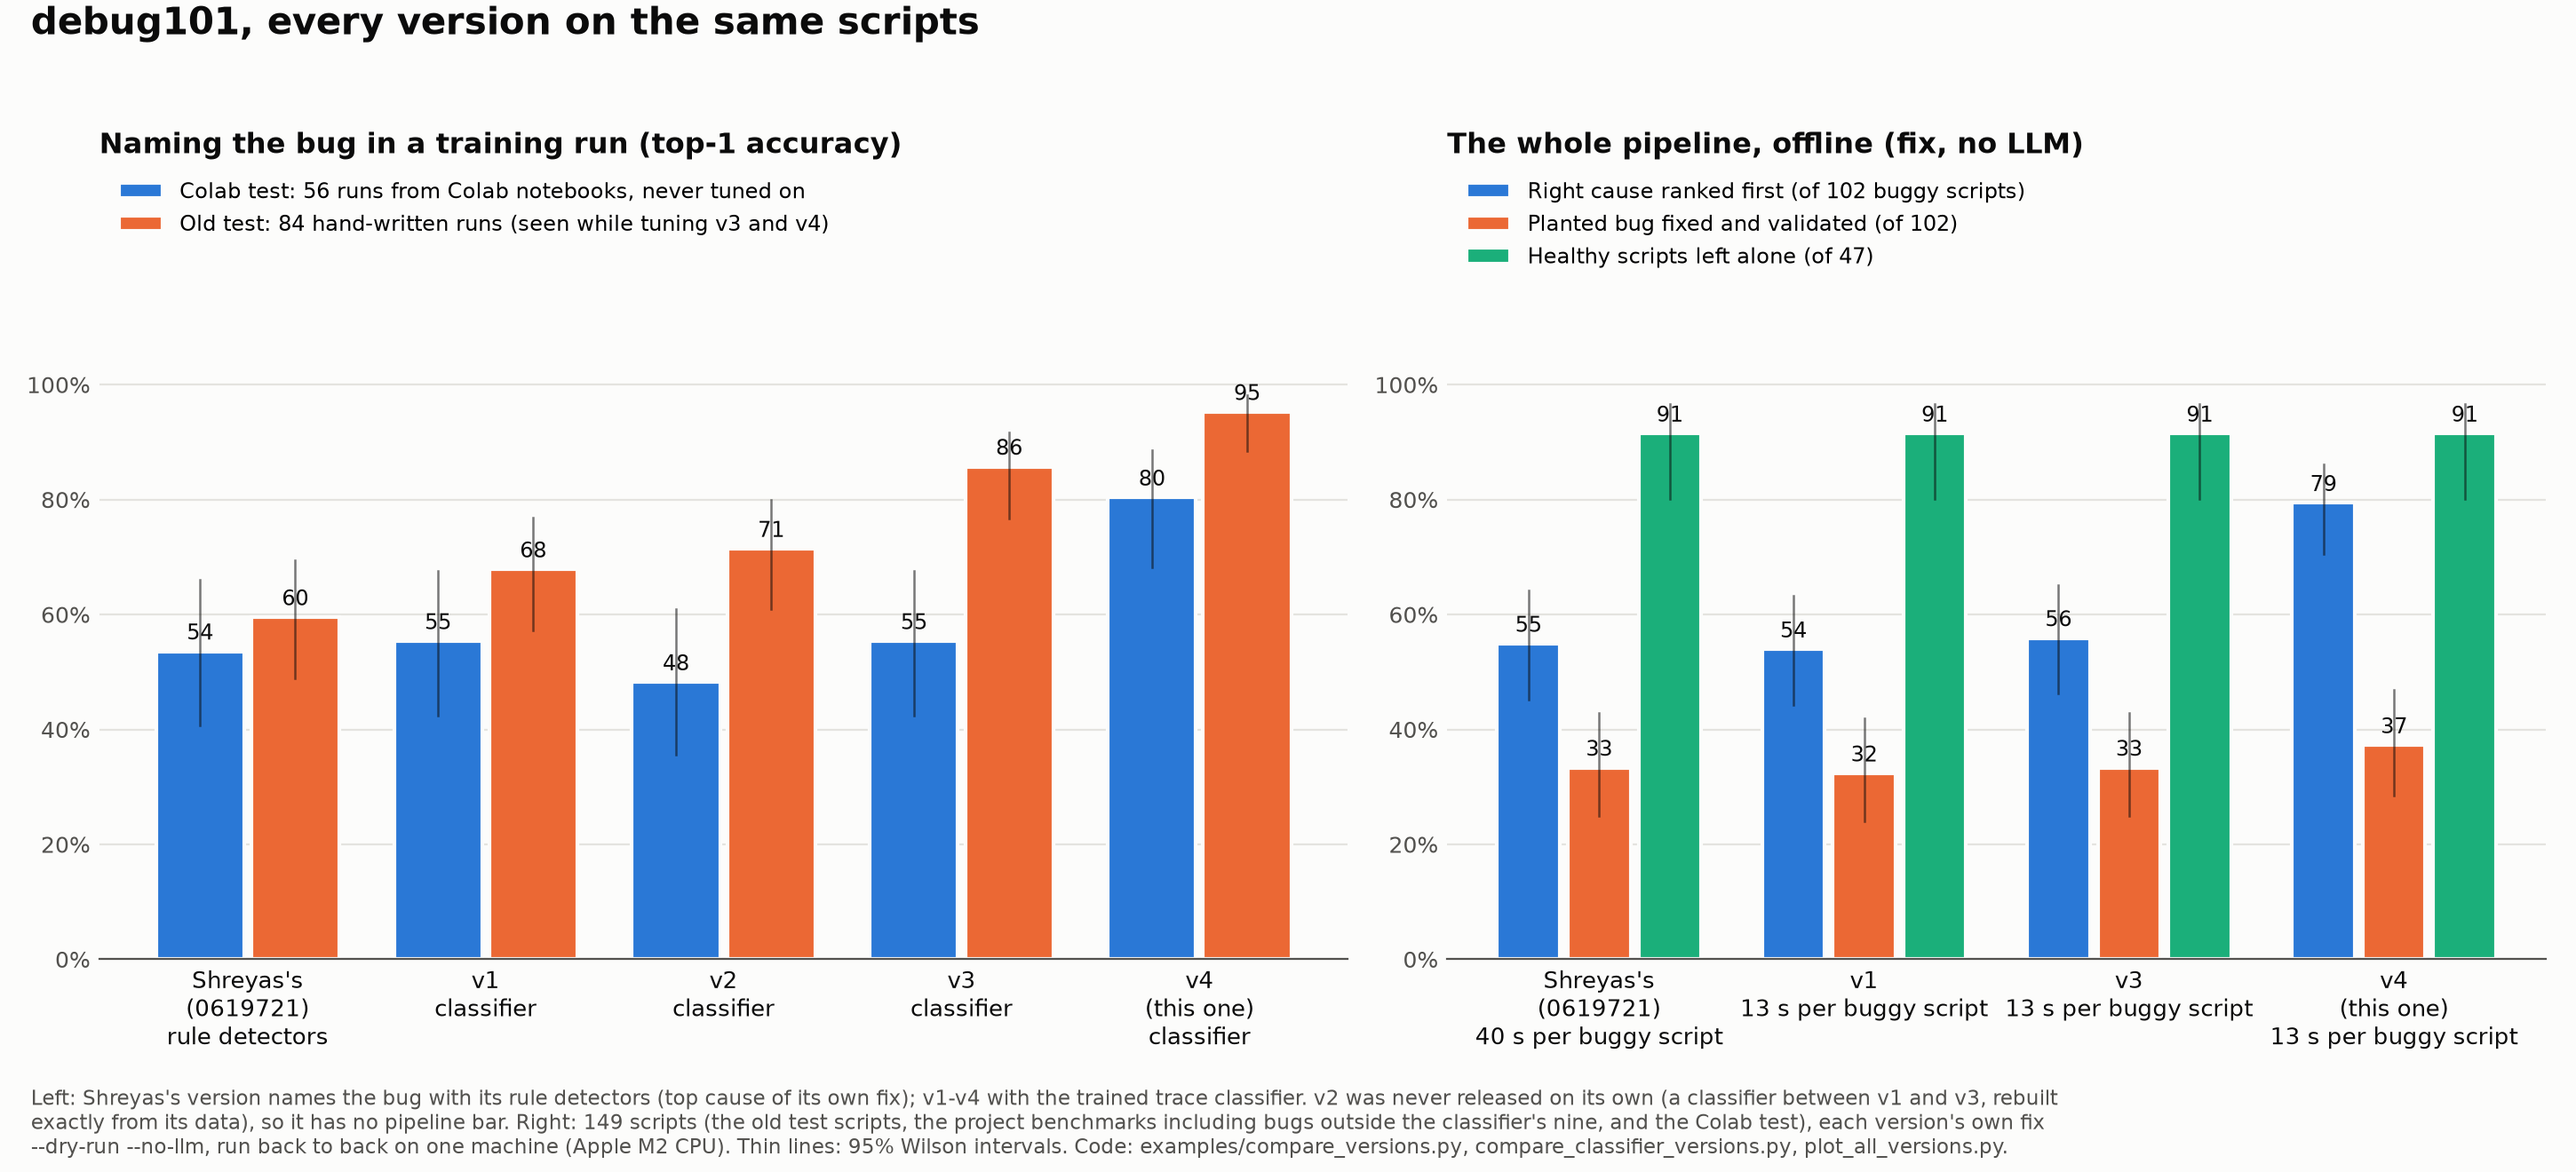
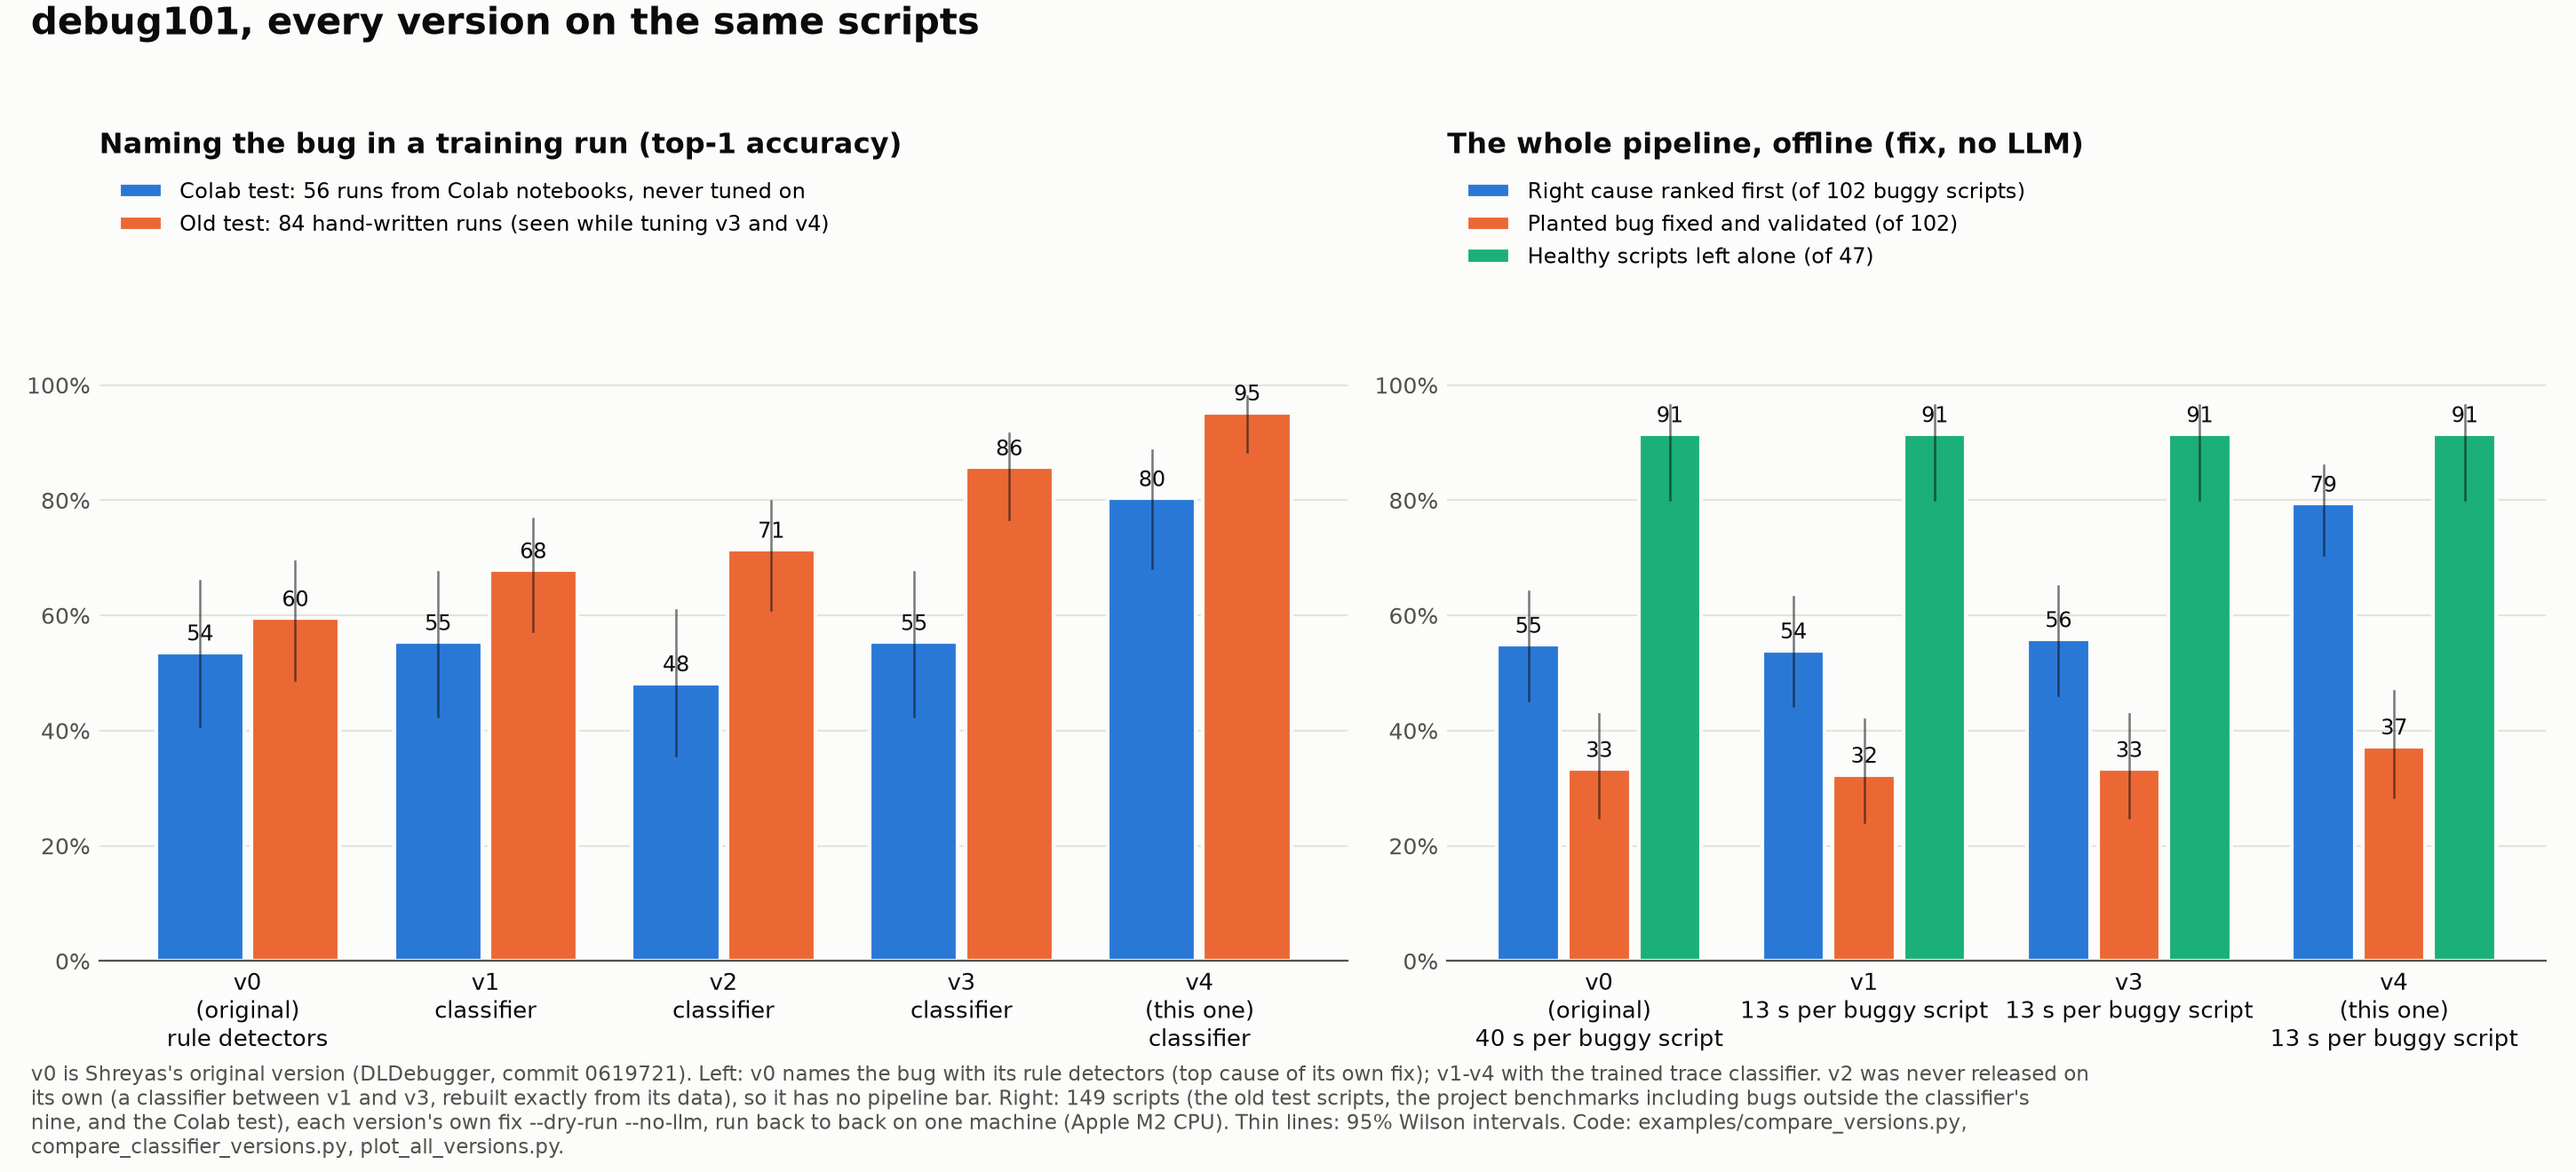
Charts: name Shreyas's original version v0

Changed region(s): [[0.0, 0.8076, 0.9621, 0.9939], [0.5276, 0.7144, 0.5586, 0.7455], [0.2483, 0.5591, 0.2793, 0.5902]]

diff --git a/examples/plot_versions.py b/examples/plot_versions.py
@@ -72,8 +72,9 @@ def differences(data: Dict[str, Any]) -> List[str]:
     return lines
 
 
-VERSION_NAMES = {"shreyas": "Shreyas's (DLDebugger, 0619721)", "v1": "v1 (0728d71)", "v2": "v2", "v3": "v3 (b7179ad)",
+VERSION_NAMES = {"shreyas": "v0 (original: DLDebugger, 0619721)", "v1": "v1 (0728d71)", "v2": "v2", "v3": "v3 (b7179ad)",
                  "v4": "v4 (this one)"}
+SHORT = {"shreyas": "v0"}  # how each version is named in the notes
 MANY_CAPABILITIES = [  # what each version has, as released
     ("Pipeline sees a blind copy (no hints)", {"shreyas": "no", "v1": "yes", "v3": "yes", "v4": "yes"}),
     ("Gate 2 seeds in parallel, two looks", {"shreyas": "no", "v1": "yes, with an early stop that cost a repair",
@@ -104,15 +105,18 @@ def many(data: Dict[str, Any], out: str) -> int:
     for subset in [k for k in data["summary"] if k != "all"]:
         part = data["summary"][subset]
         per_set.append(f"{subset} ({part[names[0]]['buggy']} buggy, {part[names[0]]['healthy']} healthy): right cause"
-                       " first " + ", ".join(f"{n} {part[n]['right_cause_first']}" for n in names)
-                       + "; planted bug fixed " + ", ".join(f"{n} {part[n]['planted_bug_fixed']}" for n in names)
-                       + "; healthy changed " + ", ".join(f"{n} {part[n]['healthy_changed']}" for n in names) + ".")
+                       " first " + ", ".join(f"{SHORT.get(n, n)} {part[n]['right_cause_first']}" for n in names)
+                       + "; planted bug fixed " + ", ".join(f"{SHORT.get(n, n)} {part[n]['planted_bug_fixed']}"
+                                                            for n in names)
+                       + "; healthy changed " + ", ".join(f"{SHORT.get(n, n)} {part[n]['healthy_changed']}"
+                                                          for n in names) + ".")
     n = first["buggy"] + first["healthy"]
-    notes = [f"Same {n} scripts for every version, offline (no LLM key), each version's own `fix --dry-run --no-llm`,"
+    notes = ["v0 is Shreyas's original version of the debugger (DLDebugger, commit 0619721).",
+             f"Same {n} scripts for every version, offline (no LLM key), each version's own `fix --dry-run --no-llm`,"
              " fresh memory every run, run back to back on one machine (Apple M2 CPU, 25 Nov 2026). v2 was a"
              " classifier between v1 and v3 and never shipped a pipeline of its own.", *per_set,
              "The old scripts (blind benchmarks and examples/holdout 05-10) were seen when v3 was compared with"
-             " Shreyas's version; the Colab test scripts were never used to choose anything.",
+             " v0; the Colab test scripts were never used to choose anything.",
              "Code: examples/compare_versions.py, github.com/rishikeshwalhekar49-lab/debug101"]
     cols = [("Measure", 30)] + [(VERSION_NAMES.get(n, n), 17) for n in names]
     draw_table("2. Every version of the debugger on the same scripts, offline", cols, rows, notes, out,

diff --git a/examples/plot_all_versions.py b/examples/plot_all_versions.py
@@ -32,7 +32,7 @@ CLASSES = {"clean", "missing_zero_grad", "train_eval_mode_mismatch", "softmax_be
            "wrong_loss_reduction", "learning_rate_misconfigured", "frozen_layer_no_grad", "dead_relu",
            "non_normalized_inputs", "label_data_misalignment"}
 OLD_SETS = ("benchmarks", "hand-written test")
-NAMES = {"shreyas": "Shreyas's\n(0619721)", "v1": "v1", "v2": "v2", "v3": "v3", "v4": "v4\n(this one)"}
+NAMES = {"shreyas": "v0\n(original)", "v1": "v1", "v2": "v2", "v3": "v3", "v4": "v4\n(this one)"}
 
 
 def wilson(k: int, n: int, z: float = 1.96) -> Tuple[float, float]:
@@ -119,7 +119,8 @@ def main(classifier_file: str, pipeline_file: str, out: str) -> int:
          "The whole pipeline, offline (fix, no LLM)", note_below=times)
     fig.suptitle("debug101, every version on the same scripts", x=0.012, y=0.995, ha="left", fontsize=15,
                  fontweight="bold", color=INK)
-    notes = ("Left: Shreyas's version names the bug with its rule detectors (top cause of its own fix); v1-v4 with "
+    notes = ("v0 is Shreyas's original version (DLDebugger, commit 0619721). "
+             "Left: v0 names the bug with its rule detectors (top cause of its own fix); v1-v4 with "
              "the trained trace classifier. v2 was never released on its own (a classifier between v1 and v3, "
              "rebuilt exactly from its data), so it has no pipeline bar. "
              f"Right: {n_buggy + n_healthy} scripts (the old test scripts, the project benchmarks including bugs "
